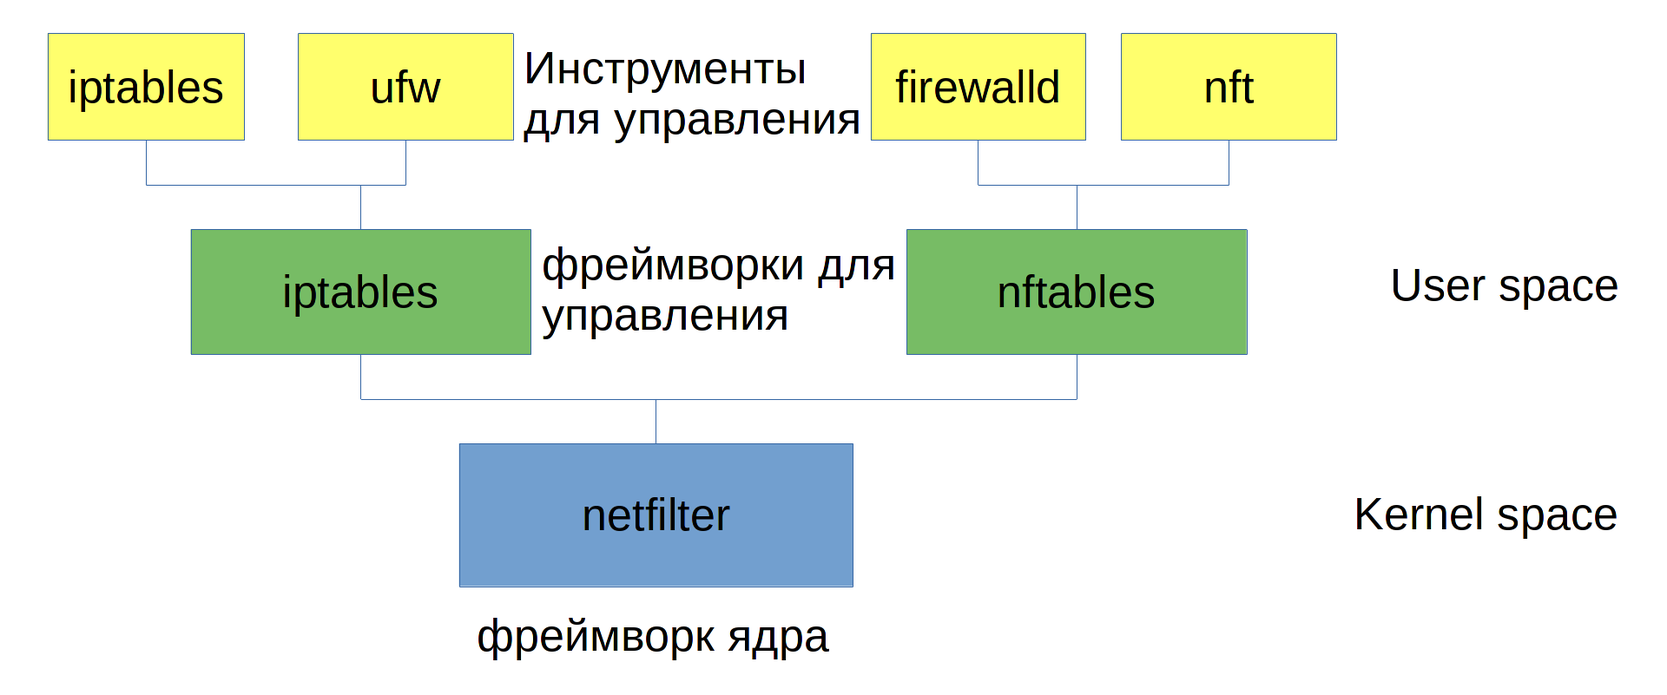
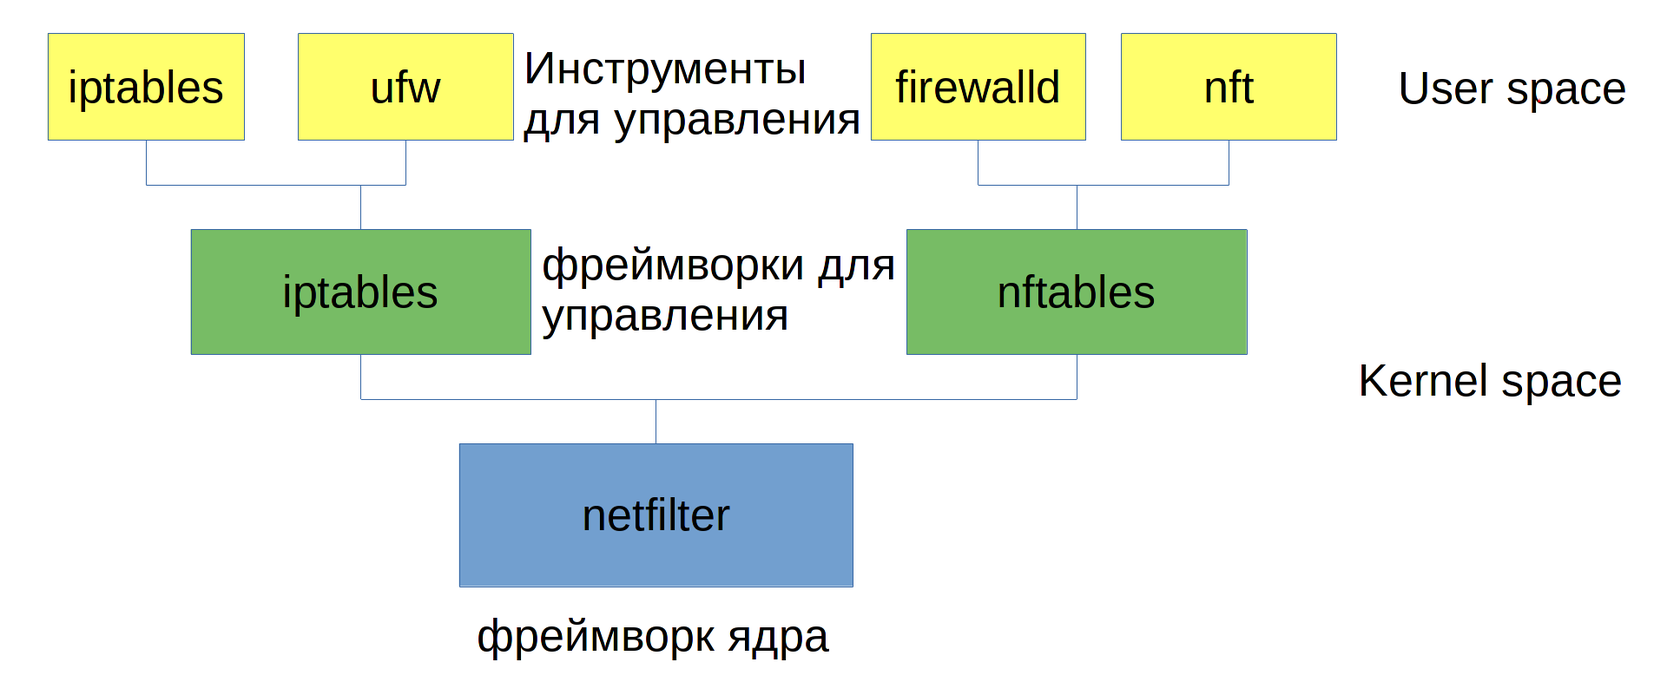
46. Межсетевой экран - firewalld

diff --git a/46. Межсетевой экран - firewalld.md b/46. Межсетевой экран - firewalld.md
@@ -1,0 +1,171 @@
+![](images/46/sshd.png)
+
+В прошлый раз мы с вами разобрали SElinux - систему безопасности, защищаю от уязвимостей. Допустим, если у SSH демона есть какая-то недоработка, взломщики не логинясь через него попытаются запустить какую-то другую программу, например, passwd, чтобы задать пароль root пользователю и получить доступ на сервер. Это абстрактный пример, в реале атаки несколько другие, но суть похожая. Так вот, если в системе нет SElinux-а, злоумышленники получат полный доступ к системе, так как sshd работает от пользователя root - ps -ef | grep sshd. А если SElinux есть, то он не позволит процессу sshd запустить passwd или любую другую программу, так как контексты не позволяют, тем самым предотвратит атаку.
+
+Но надеяться только на него не стоит - хорошая система безопасности состоит из многих уровней. И одну из главных ролей играет файрвол, который позволяет контролировать соединения ещё до того, как они доберутся до демона. Ведь если злоумышленник не сможет подключиться к SSH - то и не сможет эксплуатировать уязвимости.
+
+![](images/46/netfilter.png)
+
+Если помните, я говорил, что в ядре Linux есть фреймворк LSM, который является каркасом для SElinux и других подобных программ. Так вот, тут похожая ситуация - в ядре есть фреймворк netfilter, который является каркасом для различных инструментов по управлению файрволом. Самой блокировкой занимается именно netfilter, но он работает на уровне ядра, а чтобы задавать настройки нужны инструменты в пространстве пользователя. Раньше был популярен iptables, но лет 7 назад его заменил nftables, хотя до сих пор iptables где-то ещё используется. Но при этом сам nftables также выступает каркасом, есть утилита nft для создания политик для nftables, а он уже преобразует эти политики в понятный вид для netfilter. Но на RHEL-based дистрибутивах для управления nftables по умолчанию используется другой инструмент - firewalld. И о нём сегодня мы и будем говорить. Чтобы обобщить, firewalld - это инструмент для управления файрволом, использующий в качестве бэкенда nftables, который в свою очередь является инструментом для управления фреймворком ядра netfilter. Это так, в целях общего развития.
+
+![](images/46/firewalld.png)
+
+При этом сам firewalld является демоном - sudo systemctl status firewalld, а для просмотра информации и управления используется команда firewall-cmd. В некоторых случаях может понадобится выключить файрвол, например, у вас что-то не работает и есть подозрения, что подключения блокирует файрвол. В таких случаях достаточно остановить этот сервис. Но просто так это делать не стоит.
+
+![](images/46/firewallcmd.png)
+
+У firewall-cmd большой функционал, поэтому много различных ключей, и почти все начинаются на две дефиса. Но пусть это вас не пугает, потому что всё интуитивно понятно.
+
+![](images/46/listall.png)
+
+Начнём с простого - list-all - sudo firewall-cmd --list-all. Она показывает всю информацию - что разрешено, что запрещено и к кому это относится. Пока остановимся на строке services - здесь перечислены разрешённые сервисы - cockpit, dhcpv6-client и ssh. В firewalld, сервисы - это шаблоны, которые упрощают настройку и понимание. Смотришь и видишь, что ssh разрешён.
+
+![](images/46/firewalldservices.png)
+
+Но настройки файрвола никак не связаны с настройками демонов. Если поменять стандартный порт демона, того же sshd - это не значит, что и на firewalld он изменится. Чтобы посмотреть информацию про сервис, можно использовать опцию --info-service - sudo firewall-cmd --info-service=ssh. Как тут видно, ssh используется 22 порт tcp. Настройки сервисов файрвола прописаны в файлах в /lib/firewalld/services - cat /lib/firewalld/services/ssh.
+
+В целом сервис отличается от порта - в одном сервисе может быть несколько портов, сервис можно жёстко привязать к определённым адресам, исходящим портам, другим сервисам и т.п.
+
+![](images/46/changeport.png)
+
+Давайте, к примеру, на sshd поставим нестандартный порт - sudo nano /etc/ssh/sshd_config; sudo systemctl restart sshd. Хоть меня и не выбило из текущей сессии, но при попытке заново подключиться по стандартному порту ничего не получится. Но и указав изменённый порт также ничего не выходит. Потому что в файрволе не настроено, чтобы он кого-то пускал по порту 2233. Правда в логах об этом не будет ни слова - обычно, нет необходимости логировать каждое запрещённое соединение, а их, как правило, так много, что для логов не хватит места.
+
+![](images/46/addport.png)
+
+Самый простой вариант - разрешить порт, add port - sudo firewall-cmd --add-port=2233/tcp. Т.е. после равно нужно указать номер порта, слэш и нужный протокол - tcp или udp. После этого подключение прошло нормально - ssh vbox -p 2233.
+
+![](images/46/permanent.png)
+
+Но эти изменения только на текущую сессию. Если перезагрузить компьютер или сервис файрвола, то опять подключения будут блокироваться - sudo firewall-cmd --reload; ssh vbox -p 2233. Если мы хотим, чтобы изменения остались навсегда, нужно использовать ключ --permanent - sudo firewall-cmd --add-port=2233/tcp --permanent. При этом изменения происходят в настройках, а не в текущей сессии, поэтому после команды следует перезапустить файрвол - sudo firewall-cmd --reload. После чего всё заработает - ssh vbox -p 2233.
+
+![](images/46/removeservice.png)
+
+Правда сейчас сложилась ситуация, что у нас на файрволе открыт и 22 порт, как сервис, и 2233 - sudo firewall-cmd --list-services; sudo firewall-cmd --list-ports. Существует заблуждение, что открытый порт - это опасно, но сам по себе порт не несёт никакой угрозы, она может быть в программе, которая стоит за этим портом, в её уязвимостях и неправильных настройках. И то что сейчас на файрволе остался открытым 22 порт - ничего страшного, всё равно за ним никакого сервиса нет. Однако всё равно стоит убирать лишнее и приводить в порядок - безопасность комплексная штука, а хаос только делает хуже. Поэтому уберём отсюда сервис dhcpv6-client - он нужен для ipv6, а мы им не пользуемся - sudo firewall-cmd --remove-service=dhcpv6-client --permanent. Команды довольно простые - list показывает, add добавляет, remove убирает, permanent сохраняет в настройках, reload перезагружает.
+
+![](images/46/changeservice.png)
+
+Можно создавать или изменять сервисы. К примеру, сделаем так, чтобы порт 2233 не висел отдельно, а был в самом сервисе. Для этого уберём из сервиса 22 порт - remove-port - sudo firewall-cmd --permanent --service=ssh --remove-port=22/tcp. Потом добавим порт 2233 - add-port - sudo firewall-cmd --permanent --service=ssh --add-port=2233/tcp. Перезапустим и проверим - sudo firewall-cmd --reload; sudo firewall-cmd --info-service=ssh.
+
+![](images/46/etcfirewalld.png)
+
+Если стандартные настройки лежат в /lib/firewalld, то наши изменения сохраняются в /etc/firewalld - sudo cat /etc/firewalld/services/ssh.xml. Можно было просто скопировать файл сервиса из lib в etс, сделать изменения в самом файле и перезапустить сервис. Таким же образом можно скопировать существующий сервис и создать новый.
+
+![](images/46/removeport.png)
+
+Ну и раз уж мы в самом сервисе заменили порт, то можем убрать отдельно указанный порт - sudo firewall-cmd --remove-port=2233/tcp --permanent; sudo firewall-cmd --reload; sudo firewall-cmd --list-all.
+
+![](images/46/protocols.png)
+
+Кроме сервисов и портов, также можно разрешать сетевые протоколы. Они указаны не в firewalld, а в самой системе и их список можно посмотреть в файле /etc/protocols - tail /etc/protocols. Для примера, есть протокол ospf - grep ospf /etc/protocols - которым пользуются роутеры для обмена информацией о сетях. И если бы мы настраивали Linux как роутер, то нужно было бы добавить протокол ospf на файрволе. Но сейчас нам это не нужно.
+
+![](images/46/icmptypes.png)
+
+Также в list-all можно увидеть icmp-blocks и icmp-blocks-inversion - sudo firewall-cmd --list-all; sudo firewall-cmd --get-icmptypes. ICMP - это специальный протокол, который используют для проверки сети. Помните, в основе сетей мы проверяли доступность сети с помощью ping или traceroute? Эти программы как раз используют ICMP. Так вот, мы использовали ping чтобы понять, доступен ли другой компьютер. Зачастую в интернете боты сканируют сеть с помощью ICMP, чтобы увидеть доступные IP адреса, и потом пытаются их взломать. Нередко администраторы скрывают сервера, блокируя ICMP запросы. Конечно, открытые порты всё ещё будут доступны для подключения, но часть ботов отсеется.
+
+![](images/46/icmpblockinversion.png)
+
+С помощью firewalld мы можем заблокировать все ICMP запросы, либо определённые типы. Второе используется реже, но всё же можно, с помощью опции --add-icmp-block и указанием типа. А если блокировать всё, то можно использовать опцию --add-icmp-block-inversion, но перед этим попробуем пингануть виртуалку. Пинг идёт. Потом попробуем включить эту опцию - sudo firewall-cmd --add-icmp-block-inversion. Теперь мы видим, что ping выдаёт информацию "Packet filtered". Так мы сразу понимаем, что кто-то фильтрует трафик, а именно файрвол. И чтобы всё вернуть - --remove-icmp-block-inversion. Пинг опять пошёл. И не забывайте, что для сохранения настроек нужно использовать ключ --permanent.
+
+Вас должно было смутить, что по пингу всё равно можно было понять, компьютер доступен или нет, ведь он ответил нам - packet filtered. Такие блокировки ICMP не столько для скрытия доступности хоста, сколько для скрытия информации о сети, допустим, когда провайдер скрывает адреса своих роутеров. В таких случаях на ICMP запросы посылается ответ REJECT, чтобы было понятно, что эта информация скрыта.
+
+![](images/46/drop.png)
+
+Если же мы хотим именно скрыть компьютер, то нужно поменять другую опцию - target - sudo firewall-cmd --list-all | head -3. Для этого нужно использовать ответ DROP - sudo firewall-cmd --set-target=DROP --permanent; sudo firewall-cmd --reload. После этого файрвол будет "дропать" пакеты, т.е. выбрасывать. Если при REJECT мы посылали обратный ответ, то при DROP вторая сторона ничего в ответ не получит, поэтому будет считать, что этот IP недоступен.
+
+![](images/46/drop2.png)
+
+При этом дропаются не только ICMP пакеты, а любые подключения, не соответствующие разрешённым. К примеру, когда target=default, то при попытке подключиться к запрещённому порту я сразу получаю ответ, что не могу. Так можно понять, что где-то блокирует файрвол. А если стоит режим DROP - то программа, которая пытается подключиться, допустим, ssh, будет долго ждать и просто не дождётся ответа. Поэтому это более предпочтительный способ скрыть компьютер.
+
+![](images/46/vboxnet1.png)
+
+Прежде чем продолжим, давайте добавим ещё один адаптер для виртуалки. Для этого сначала её нужно выключить, затем в меню самого виртуалбокса зайти в File - Host Network Manager и проверить, есть ли там сеть, т.е. в табличке под Name должна быть какая-то запись. Если её нет, то нажмите Create и поставьте галочку у "DHCP Server", затем Close.
+
+![](images/46/vboxnet2.png)
+
+После чего надо зайти в настройки самой виртуалки, выбрать Network - Adapter 2, поставить галочку на включение адаптера, выбрать тип "Host-only Adapter" и выбрать из списка созданный адаптер, затем нажать ОК. После этого можно включать виртуалку.
+
+![](images/46/ipa.png)
+
+После изменений в виртуалке появится новый интерфейс - ip a. У меня он назвался enp0s8 и получил адрес 192.168.56.3, у вас результат может отличаться. Если попытаемся с хоста пропинговать этот адрес, то ничего не получится - но это и не удивительно, мы ведь запретили пинги. А вот подрубиться по этому адресу к SSH можно, естественно, указав нужный порт при подключении - ssh user@192.168.56.3 -p 2233.
+
+![](images/46/firewalldinterfaces.png)
+
+А интерфейс мы добавили не просто так. Если посмотреть файрвол - sudo firewall-cmd --list-all, можно заметить, что в строке interfaces появился также enp0s8 - наш новый интерфейс. Зачем на файрволе интерфейсы?
+
+![](images/46/zbf.jpg)
+
+Начнём с того, что нередко сервера могут смотреть сразу в несколько сетей. Например, ваш роутер смотрит одновременно в две сети - в домашнюю и в интернет. Роутер это тоже своего рода сервер, да и из линукса можно сделать маршрутизатор. Так вот, к роутеру можно подключаться, чтобы им управлять. Но позволять кому-то подключаться к роутеру из интернета не очень хорошо, это не безопасно. Поэтому на нём можно настроить, чтобы управлять им можно было только с домашней сети, а не из интернета. Т.е. у вашего роутера есть две так называемые зоны - внешняя сеть и локальная. Внешняя сеть - опасная и недоверенная, все запросы оттуда нужно блокировать. А локальная сеть - относительно безопасная. Если пинги из внешней зоны стоит дропать, то из домашней наоборот, стоит оставить, чтобы было понятно - работает ли роутер. Т.е. всё просто - разные зоны - разное доверие - нужно разное запрещать или разрешать.
+
+![](images/46/getzones.png)
+
+На многих современных файрволах можно настроить различные политики для различных зон. Их также называют zone-based firewall-ами. По умолчанию в firewalld уже прописано несколько зон - sudo firewall-cmd --get-zones. И если вы внимательно смотрели, то заметили, что каждый раз, как мы смотрели файрвол, там красовалось слово public - это зона по умолчанию - sudo firewall-cmd --get-default-zone. Политики public мы уже видели и настроили. Некоторые зоны уже преднастроены под определённые случаи, например, в зоне block всё по умолчанию блокируется, в зоне drop - дропается, а в зоне trusted - разрешается - sudo firewall-cmd --list-all --zone=block | head -3; sudo firewall-cmd --list-all --zone=drop | head -3; sudo firewall-cmd --list-all --zone=trusted | head -3.
+
+![](images/46/changeinterface.png)
+
+Так вот, мы можем назначать интерфейсы на зоны. Сейчас у нас оба интерфейса смотрят в зону public, но давайте переместим второй интерфейс в зону trusted - sudo firewall-cmd --change-interface=enp0s8 --zone=trusted. Это будет временно, а как сделать на постоянно вы уже знаете. После смены интерфейс оказался в trusted зоне - sudo firewall-cmd --list-interfaces --zone=trusted. Обратите внимание, что теперь к каждой команде я добавляю ключ --zone и указываю нужную зону. Потому что все прежние изменения мы делали с дефолтной - public. Если же мы хотим работать с другой зоной, нужно обязательно указывать её в опциях. После смены в дефолтной зоне остался только интерфейс enp0s3. И обратите внимание, так как мы сменили зону для интерфейса, то теперь по адресу на этом интерфейсе идёт пинг и можно подключаться. А адрес, оставшийся на enp0s3 всё ещё не пингуется.
+
+![](images/46/addsource.png)
+
+Но иногда бывает, что каким-то определённым IP адресам мы хотим что-то разрешить или запретить, независимо от интерфейса. К примеру, вы хотите блокировать все входящие соединения на внешний адрес роутера, но у вас на работе есть внешний IP адрес, с которого вы хотите разрешить подключения. Интерфейс, который смотрит в интернет, вы переместили с зону drop, но вы можете определённые IP адреса или сети назначать в другие зоны. К примеру, сейчас у меня новый интерфейс находится в зоне trusted и только что всё пинговалось и подключалось. Давайте я добавлю IP адрес хоста в зону block - sudo firewall-cmd --zone=block --add-source=192.168.56.1; sudo firewall-cmd --list-all --zone=block. Даже если у меня интерфейс находится в другой зоне, IP адрес конкретнее, а поэтому при виде запроса с этого IP адреса будет применяться политика из зоны block - т.е. пинги будут фильтроваться. Если же запрос приходит с адреса, который не прописан не в одной зоне как source - то срабатывает политика, которая применяется ко всему интерфейсу.
+
+![](images/46/addsource.png)
+
+Но иногда бывает, что каким-то определённым IP адресам мы хотим что-то разрешить или запретить, независимо от интерфейса. К примеру, вы хотите блокировать все входящие соединения на внешний адрес роутера, но у вас на работе есть внешний IP адрес, с которого вы хотите разрешить подключения. Интерфейс, который смотрит в интернет, вы переместили с зону drop, но вы можете определённые IP адреса или сети назначать в другие зоны. К примеру, сейчас у меня новый интерфейс находится в зоне trusted и только что всё пинговалось и подключалось. Давайте я добавлю IP адрес хоста в зону block - sudo firewall-cmd --zone=block --add-source=192.168.56.1; sudo firewall-cmd --list-all --zone=block. Даже если у меня интерфейс находится в другой зоне, IP адрес конкретнее, а поэтому при виде запроса с этого IP адреса будет применяться политика из зоны block - т.е. пинги будут фильтроваться. Если же запрос приходит с адреса, который не прописан не в одной зоне как source - то срабатывает политика, которая применяется ко всему интерфейсу.
+
+![](images/46/masquerade.png)
+
+Ещё одна примечательная опция - masquerade - sudo firewall-cmd --list-all --zone=external. Мы с вами обсуждали NAT - когда вы выходите в интернет, ваш роутер подменяет ваши домашние IP адреса на свой внешний, чтобы другая сторона знала, куда посылать ответ. Так вот, такой тип NAT-а называется Source NAT, так как заменяется source адрес, т.е. адрес отправителя. Это также позволяет скрыть реальные IP адреса отправителей, поэтому также такой NAT называют masquerade. И так как Linux можно настроить как роутер, на нём также можно врубить source nat с помощью файрвола. По умолчанию он врублен в зоне external, но, по желанию, можно и других зонах - sudo firewall-cmd --add-masquerade --zone=work.
+
+![](images/46/nat.png)
+
+Чуть ниже masquerade-а есть forward-ports - это тоже про NAT, но уже про destination nat - когда заменяется адрес получателя. К примеру, ваш домашний компьютер недоступен из интернета, а ваш роутер - доступен. И вы можете на роутере выделить какой-нибудь порт, к примеру, 5555. И когда на роутер на этот адрес будут приходить запросы, он будет их пересылать на ваш домашний компьютер. Таким образом вы сможете из интернета подключаться к домашнему компьютеру. В простонародье это называется проброс портов. Будет отдельная тема, где я нагляднее объясню Source и Destination NAT.
+
+![](images/46/sourceports.png)
+
+Ну и наконец source-ports - исходящие порты. Тему портов мы уже затрагивали, однако  про исходящие порты не говорили. И так, мы знаем, что ssh сервер по умолчанию работает на 22 порту. И когда мы к нему пытаемся подключиться, для нас этот порт является целевым - destination port. Но для отправки и получения ответа мы и сами, на стороне клиента, должны открыть порт - исходящий порт - source port. Но это не 22 порт, а динамический. Обычно это 5-значные порты, где-то от 30 до 60 тысяч. Когда вы клиентом подключаетесь к ssh, заходите через браузер на какой-то сайт и т.п. - то операционная система временно выделяет для софта рандомный порт. Как только сессия закроется - порт перестанет использоваться. И, как правило, source порты рандомные и мало где указываются. Однако, в определённых программах можно выбрать исходящие порты.  И вот на файрволе есть возможность запретить подключаться с других портов. Но это используется довольно редко.
+
+![](images/46/ss.png)
+
+Ну и раз уж мы заговорили о портах, стоит упомянуть команду ss. Вкратце - эта команда показывает сокеты. Помните, мы говорили о сокетах, когда речь шла о логах? Сокеты позволяют процессам общаться между собой. Так вот, сетевые соединения также являются сокетами. Сокеты, которые нужны только между процессами внутри одной системы, называются UNIX сокетами. Ну и соответственно есть TCP и UDP сокеты. К примеру, запустим команду ss -n4. Здесь ключ -n - показывать номера портов, вместо имён. А ключ -4 - показывать только сокеты, относящиеся к ipv4. Как видите, вышла одна строка - это tcp сокет, ESTAB - established - означает, что это установленное соединение. Оно установлено на локальный адрес - 192.168.31.5 на порт 2233. И это соединение идёт от адреса 192.168.31.227 - это мой компьютер, с source порта 49994. Это как раз текущее подключение по SSH.
+
+ss позволяет понять, а какие порты на сервере сейчас активны. Часто бывает нужно понять - а слушает ли демон на таком-то порту? И тут можно использовать команду ss -n4lt - l это listen, т.е. показывает активные порты, за которыми есть демоны. И t - это tcp. В итоге мы видим список tcp сокетов с номерами портов, которые слушает наш сервер по ipv4. А если взять список всех сокетов, то их довольно много - ss -a. Мы периодически будем пользоваться этой утилитой.
+
+![](images/46/nczv.png)
+
+Ещё одна важная утилита - nc. По работе вы можете сталкиваться с различными проблемами и не всегда есть возможность точно сказать - проблема с самим приложением или файрвол блокирует? А возможно между пользователем и сервером есть другие файрволы? Если к ssh серверу или сайту можно подключиться утилитами, то не со всеми серверами так просто. Поэтому вам может понадобится понять, а есть ли доступ до сервера и не блокирует ли файрвол? Многие админы используют утилиту telnet, но она не всегда предустановлена, да и не самая удобная. На большинстве Linux-ов зачастую предустановлена утилита nc, и обычно я использую её. Синтаксис для проверки порта простой - nc -zv ip адрес порт - nc -zv 192.168.31.5 22; nc -zv 192.168.31.5 2233; nc -zv 192.168.56.3 22. Как видите, в первом случае я долго жду ответа, но его нет - это значит, что либо нет демона за этим адресом и портом, либо файрвол дропает запрос. Во втором случае я получил succeeded - т.е. соединение успешно, nc смог подключиться. В третьем случае соединение не прошло - значит, либо хост недоступен, либо файрвол. Но так можно проверять можно только TCP порты, UDP работает несколько иначе, и проверить его бывает затруднительно.
+
+![](images/46/nclu.png)
+
+nc также позволяет передавать сообщения, используя tcp или udp. Если у вас есть доступ на сервер, вы можете понять, а работают ли соединения, не блокирует ли кто-то посередине и в целом заранее убедиться, что с сетью проблем не будет, прежде чем настроить какой-то сервис. К примеру, потестируем udp соединение, на стороне сервера слушаем на udp порту 5555 - sudo nc -ul 5555. С клиента попытаемся подрубиться - nc -u 192.168.31.5 5555. Как видите, соединение не проходит. Я на файрволе не открывал порт, в этом и причина. Добавим порт - sudo firewall-cmd --add-port=5555/udp, после чего опять потестим - sudo nc -ul 5555. Теперь я могу что-то написать и это придёт на сервер. Для проверки tcp просто заменим ключ -u на -t - и на стороне клиента, и на стороне сервера. Всё довольно просто.
+
+![](images/46/runtimetoperm.png)
+
+Возвращаясь к файрволу. Мы сделали много изменений, но не прописывали permanent - а это значит, что после рестарта все наши изменения слетят. Если же мы хотим сохранить настройки, допустим, мы тестировали и всё нас устроило - то можем использовать ключ --runtime-to-permanent - sudo firewall-cmd --runtime-to-permanent. А для просмотра информации по всем зонам - --list-all-zones - sudo firewall-cmd --list-all-zones.
+
+![](images/46/panic.png)
+
+Ещё из примечательного - режим паники -- panic-on - sudo firewall-cmd --panic-on; sudo firewall-cmd --panif-off. При его запуске обрываются все соединения и дропаются все входящие и исходящие пакеты. Может пригодиться, скажем, если вас взломали и вам срочно нужно оборвать всё.
+
+![](images/46/richrules.png)
+
+Ну и под конец - rick rules. До этого мы говорили про зоны, что можно разделить в файрволе сеть по областям, различая по интерфейсам и IP адресам, и к разным применять различные политики. Но иногда бывают нужны точечные правила - только этому адресу разрешить только этот порт и при этом логировать. В некоторых случаях можно создать зону и прописать один source и один сервис, будет чем-то похоже на точечное правило, но это выглядит коряво, всё таки это не зона. Для этого лучше использовать rich rules. Правда есть нюанс. Скажем, если посмотреть firewall-cmd --list-all, то по выведенному списку очень легко будет понять синтаксис для команд - add-service, add-port, remove-source, change-interface и всё в таком духе. Можно просто два раза tab нажать и увидеть список почти всех доступных команд, а там интуитивно понятно. А с rich rule-ами так не работает, табуляция не поможет, да и не так интуитивно понятно. Но выход простой - в манах есть хорошие примеры - man firewalld.richlanguage.
+
+![](images/46/rulestruct.png)
+
+В таких правилах можно указать source и destination адрес, сервис/порт/протокол, а также логирование, аудит и применяемое в итоге действие - пропустить, блокнуть, дропнуть или добавить метку. Метка штука специфичная и пока нам не нужна, а аудит - это тоже своего рода логирование, эту тему мы когда-нибудь разберём.
+
+![](images/46/ruleexamples.png)
+
+Спустимся чуть ниже, где у нас примеры - EXAMPLES.
+Первый пример довольно простой - разрешать протокол ah. Обратите внимание, что в каждом правиле в начале есть слово rule.
+Второй пример - разрешить сервис с именем ftp, также его логировать, при этом не чаще раза в минуту, об этом говорит limit value="1/m", ну и включён audit.
+Третье правило - разрешать соединения по ipv4 от сети 192.168.0.0/24 к сервису tftp, при этом логировать не чаще раза в минуту, и к логам приписывать префикс tftp, а также важность - info. Если вы помните, при разборе логирования мы упоминали, что в syslog указывается важность лога, это может быть просто информационное сообщение или какая-то ошибка.
+Там есть ещё примеры, но их постарайтесь разобрать сами.
+
+![](images/46/addrichrule.png)
+
+  Давайте пропишем правило. Например, разрешать подключение ко второму IP адресу сервера только от адреса моего хоста по порту 2233 и логировать эту информацию не чаще раза в минуту с важностью crit, добавляя prefix MYSSH. Для этого используем опцию --add-rich-rule, не забываем указать в начале rule, ну и указываем интересующие нас опции, для начала, что это ipv4, source и destination адреса, порт 2233 и его протокол - tcp, префикс и прочую информацию по логам - sudo firewall-cmd --add-rich-rule='rule family="ipv4" source address="192.168.31.227" destination address="192.168.31.6" port port="2233" protocol="tcp" log prefix="MYSSH" level="crit" limit value="1/m" accept'. После этого правило появится в зоне, так как мы не указали зону в команде, то оно добавится в дефолтной зоне - sudo firewall-cmd --list-all.
+
+  Ну и протестируем - подключимся к этому адресу и проверим последние логи с уровнем crit - ssh user@192.168.31.6 -p 2233; sudo journalctl -p crit | tail -1. Лог появился и в нём указан входящий интерфейс, ip адреса и прочая информация. Да, rich правила не самые удобные в написании, но с man-ом можно легко вспомнить. А для удаления таких правил опция --remove-rich-rule со всем содержимым правила.
+
+  Давайте подведём итоги. Сегодня мы с вами разобрали firewalld - инструмент, который позволяет гибко и удобно настроить правила в рамках одной или нескольких зон. Синтаксис у команды простой и интуитивно понятный - можно добавлять и убирать порты, сервисы, протоколы, делить сеть на зоны, меняя принадлежность интерфейсов и адресов к какой-либо зоне. Поговорили про ICMP, reject и drop пакетов, а также немного про Source и Destination NAT. Посмотрели утилиту ss, которая выводит информацию о сокетах, а также тестировали соединение с помощью nc. Ну и под конец rich rule-ы - точечные правила, которые позволяют добавлять исключения. И помните, если даже вы забыли синтаксис - всегда есть маны, которые позволят вам вспомнить.  
